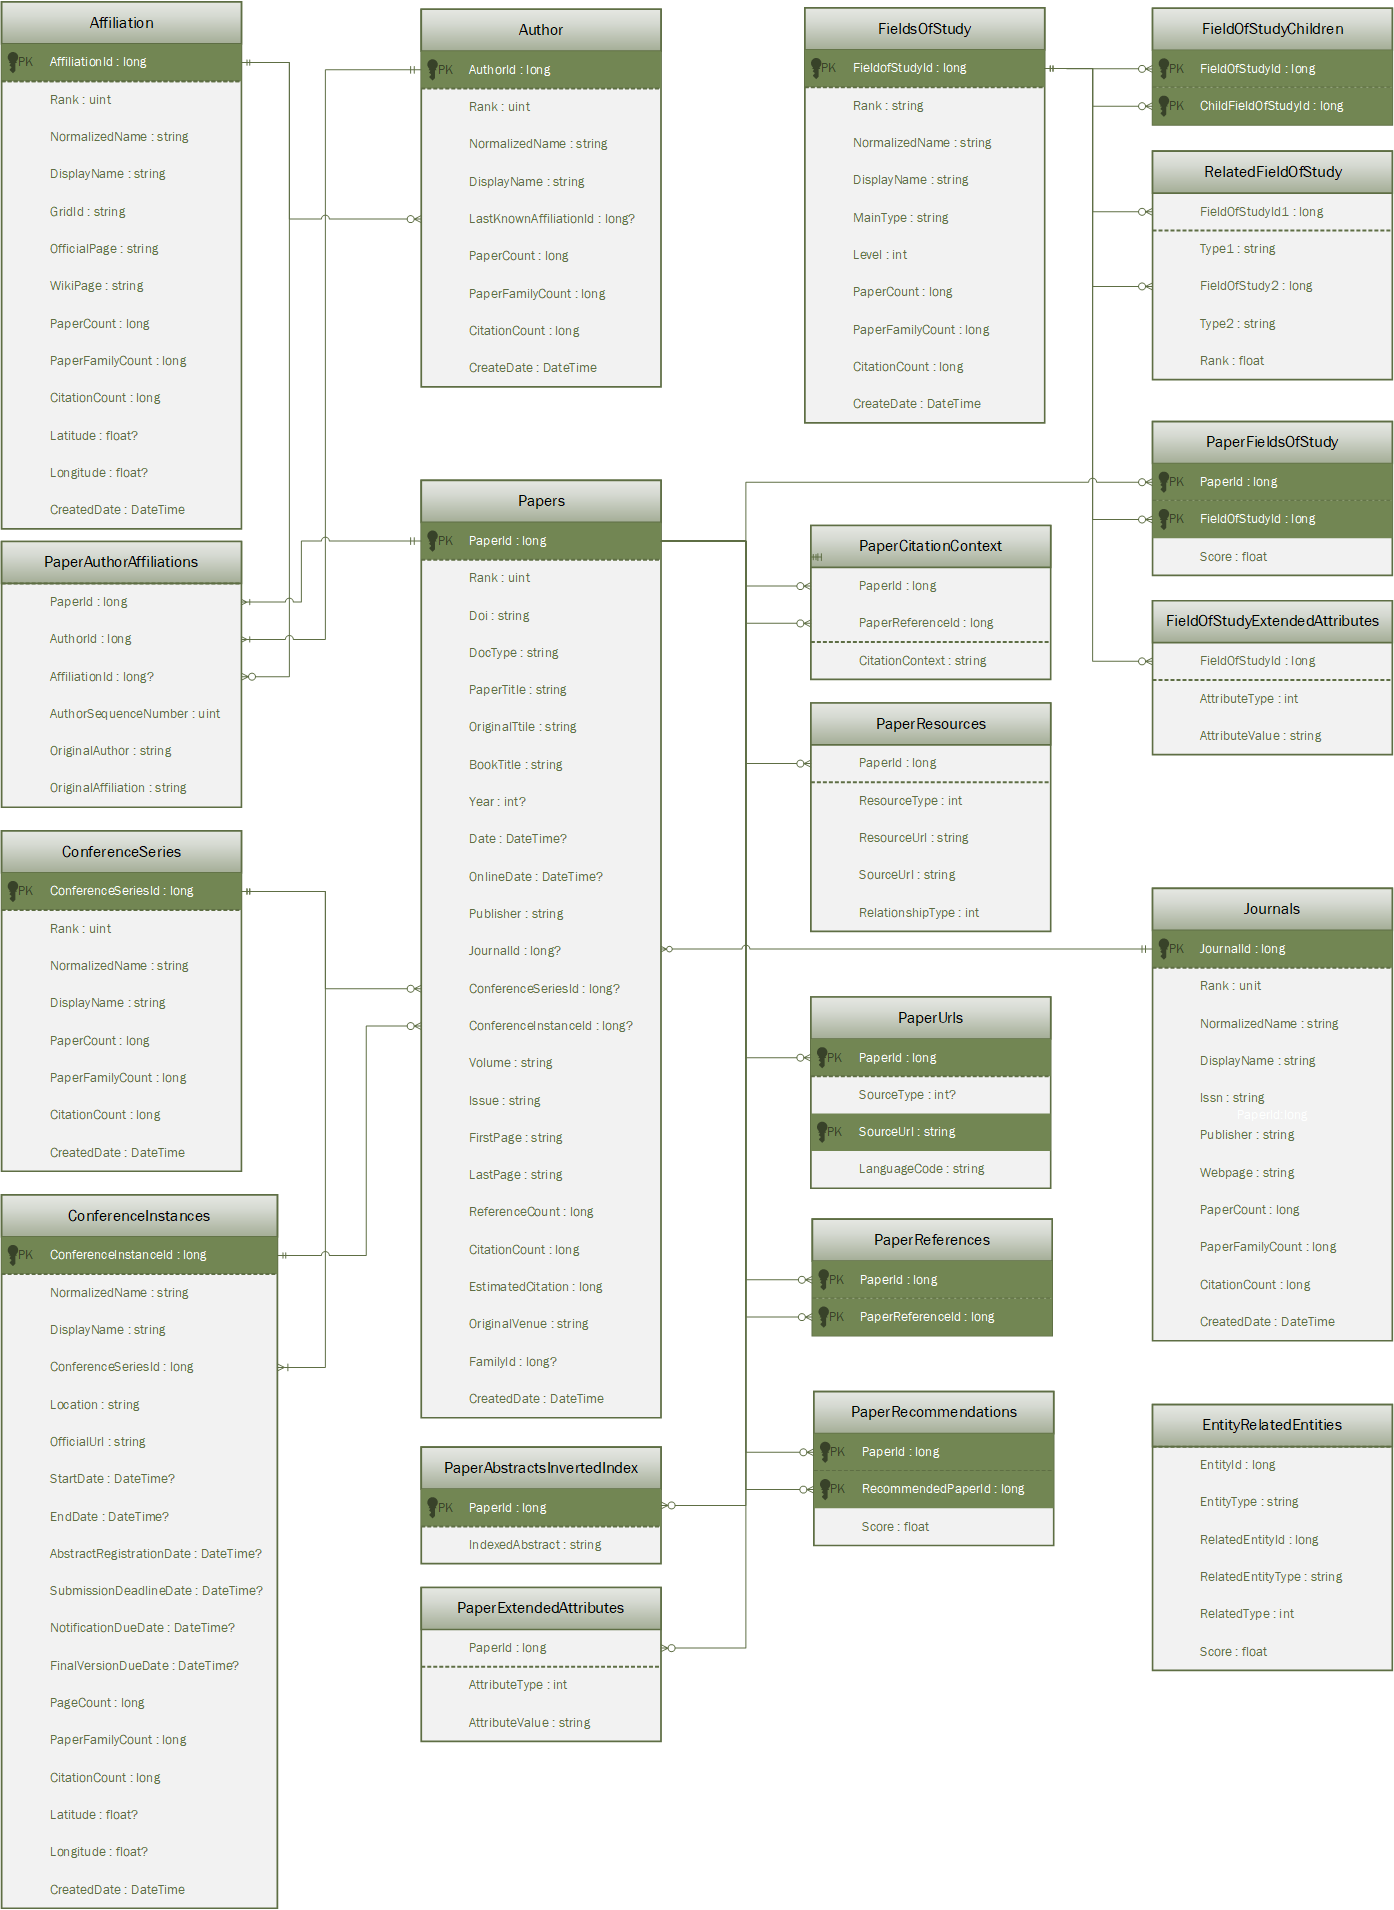
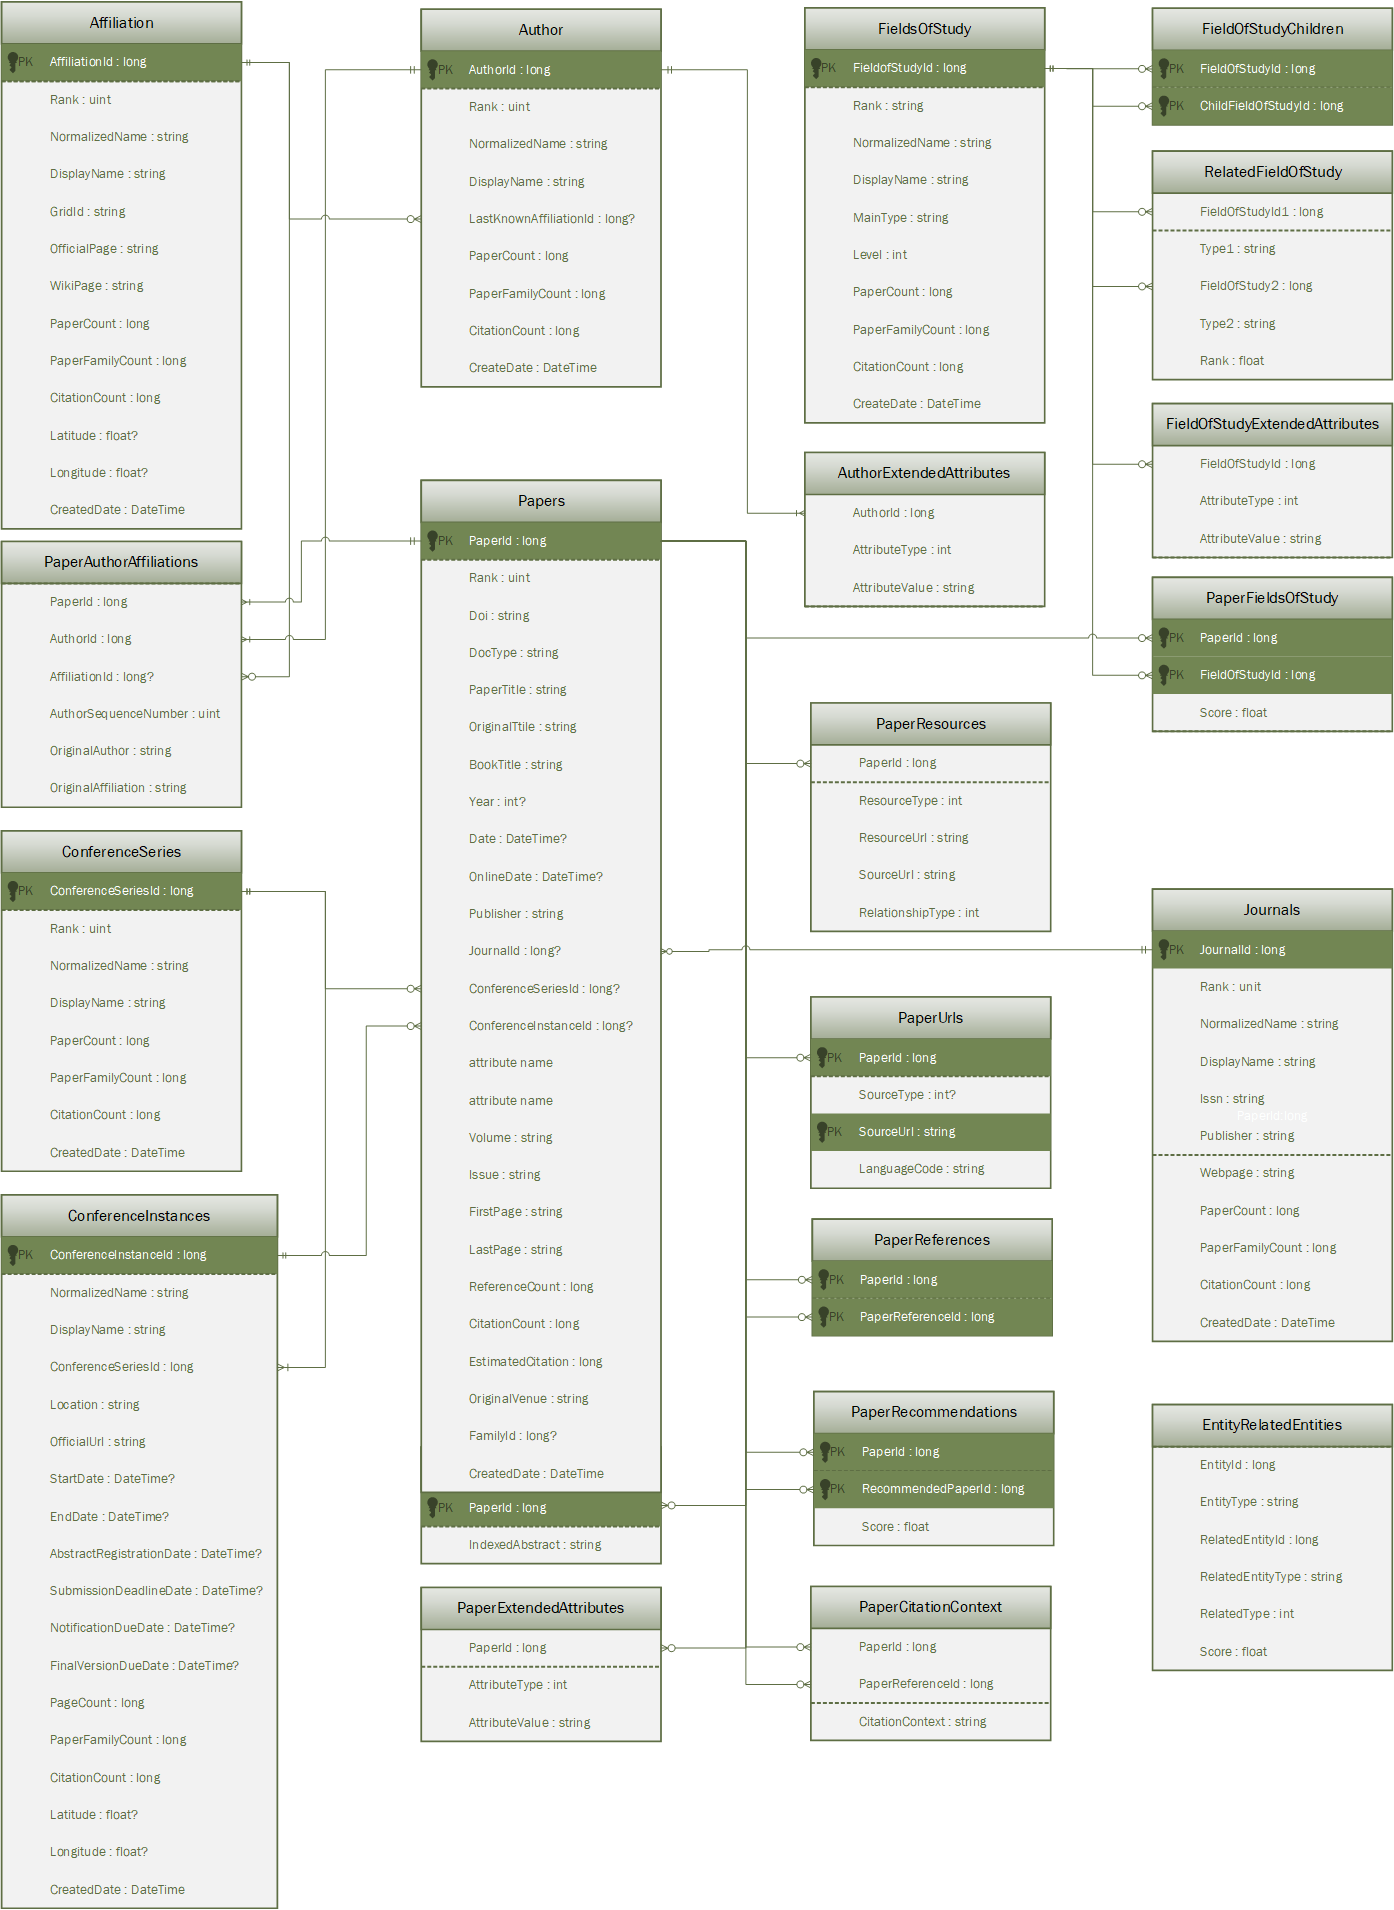
Added author extended attributes (#162)
* Added AuthorExtendedAttributes

* Add files via upload

* Update reference-data-schema.md

diff --git a/academic-services/graph/reference-data-schema.md b/academic-services/graph/reference-data-schema.md
@@ -2,7 +2,7 @@
 title: Microsoft Academic Graph data schema
 description: Documents the complete, most recent Microsoft Academic Graph entity data schema, including the name and type of each attribute
 ms.topic: reference
-ms.date: 6/11/2020
+ms.date: 7/9/2020
 ---
 # Microsoft Academic Graph data schema
 
@@ -43,6 +43,18 @@ Column # | Name | Type | Note
 11 | Latitude | float? |
 12 | Longitude | float? |
 13 | CreatedDate | DateTime |
+
+## AuthorExtendedAttributes
+
+**Path** `mag/AuthorExtendedAttributes.txt`
+
+**Schema**
+
+Column # | Name | Type | Note
+--- | --- | --- | ---
+1 | AuthorId | long | FOREIGN KEY REFERENCES Authors(AuthorId)
+2 | AttributeType | int | 1: Alternative Name
+3 | AttributeValue | string |
 
 ## Authors
 
